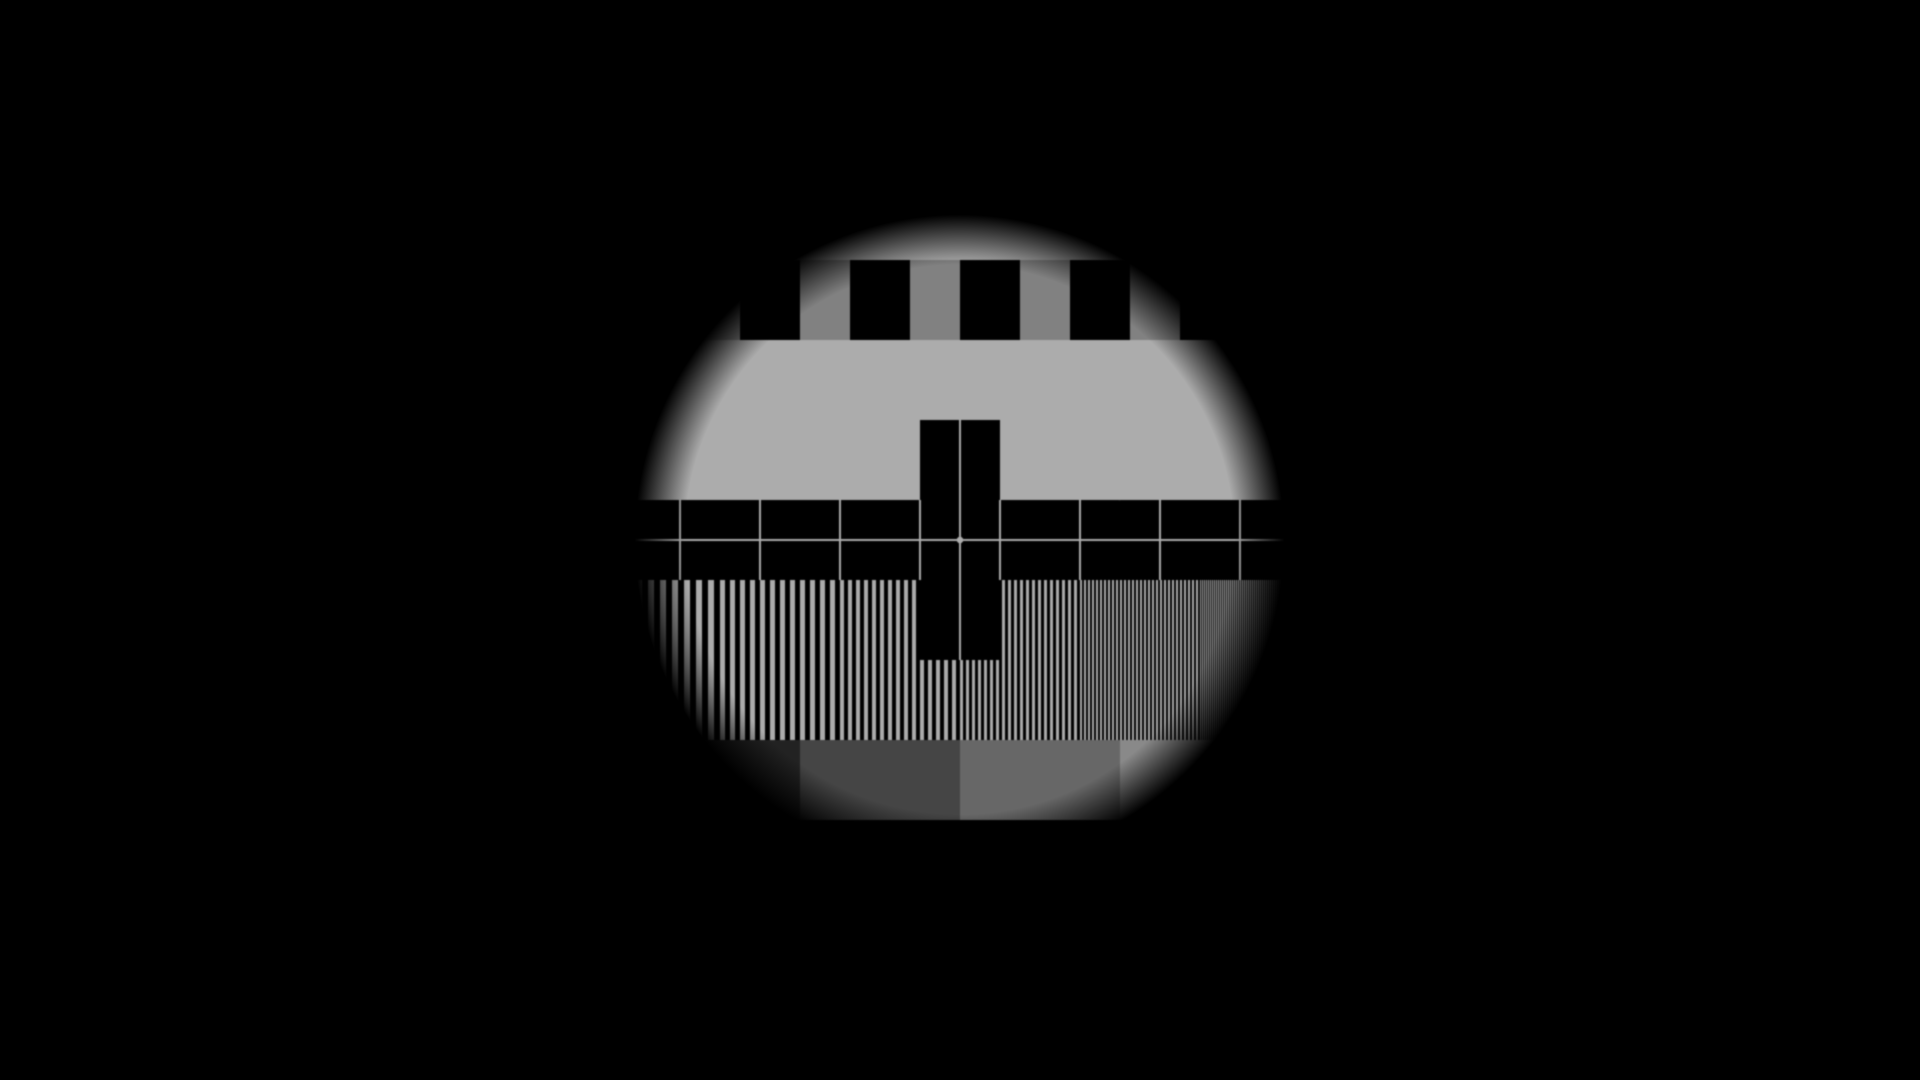
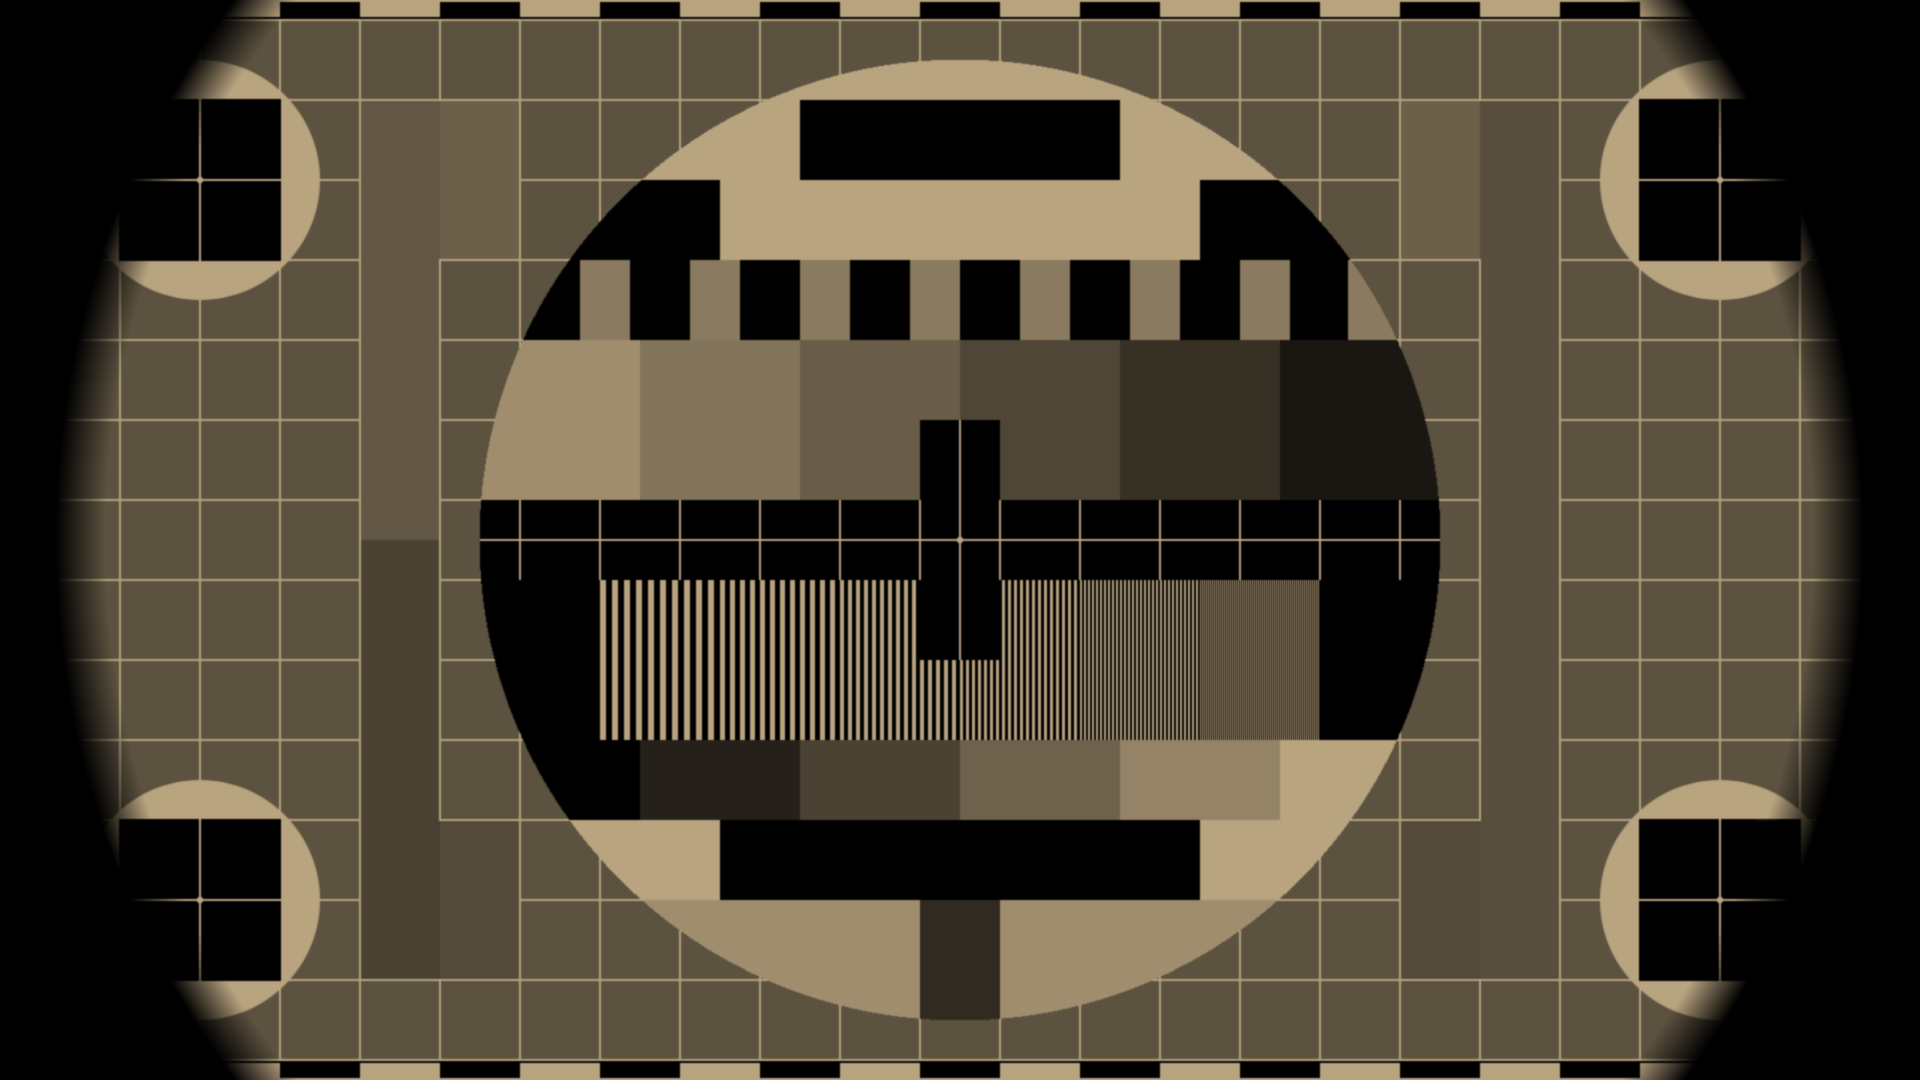
sepia filter done

diff --git a/exercise1/src/filter_remove_color.m b/exercise1/src/filter_remove_color.m
@@ -67,13 +67,35 @@ function [video] = filter_remove_color(video, mode)
     %%%%%%%%%%%%%%%%%%%%%%%%%%%%%%%%%%%%%%%%%%%%%%%%%%%%%%%%%%%%
     function [sepia] = sepia(img)
         % define SepiaValues 3x3 matrix
-        values = [0.4 0.769 0.189 ; 0.349 0.686 0.168 ; 0.272 0.534 0.131]
+        values = [0.4 0.769 0.189 ; 0.349 0.686 0.168 ; 0.272 0.534 0.131];
         % get color vectors YxXxRGB
-        colors = [img(:,:,1); img(:,:,2); img(:,:,3)];
-        %test = values * img(:,:,1);
-        %sepia(:,:,2) = values * img(:,:,2);
-        %sepia(:,:,3) = values * img(:,:,3);
-        sepia = img;
+        red = img(:,:,1);
+        red = red(:);
+        green = img(:,:,2);
+        green = green(:);
+        blue = img(:,:,3);
+        blue = blue(:);
+        colors = zeros(3,size(red));
+        colors(1,:) = red; 
+        colors(2,:) = green; 
+        colors(3,:) = blue;
+        
+        % calculate sepia colors
+        temp = values*colors(:,1:size(colors,2));
+        
+        % get calculated colors back into rgb matrix
+        red = temp(1,:);
+        green = temp(2,:);
+        blue = temp(3,:);
+        temp = zeros(size(img,1),size(img,2));
+
+        sepia = zeros(size(img,1),size(img,2),size(img,3));
+        temp(:) = red;
+        sepia(:,:,1) = temp;
+        temp(:) = green;
+        sepia(:,:,2) = temp;
+        temp(:) = blue;
+        sepia(:,:,3) = temp;
     end
 end
 
